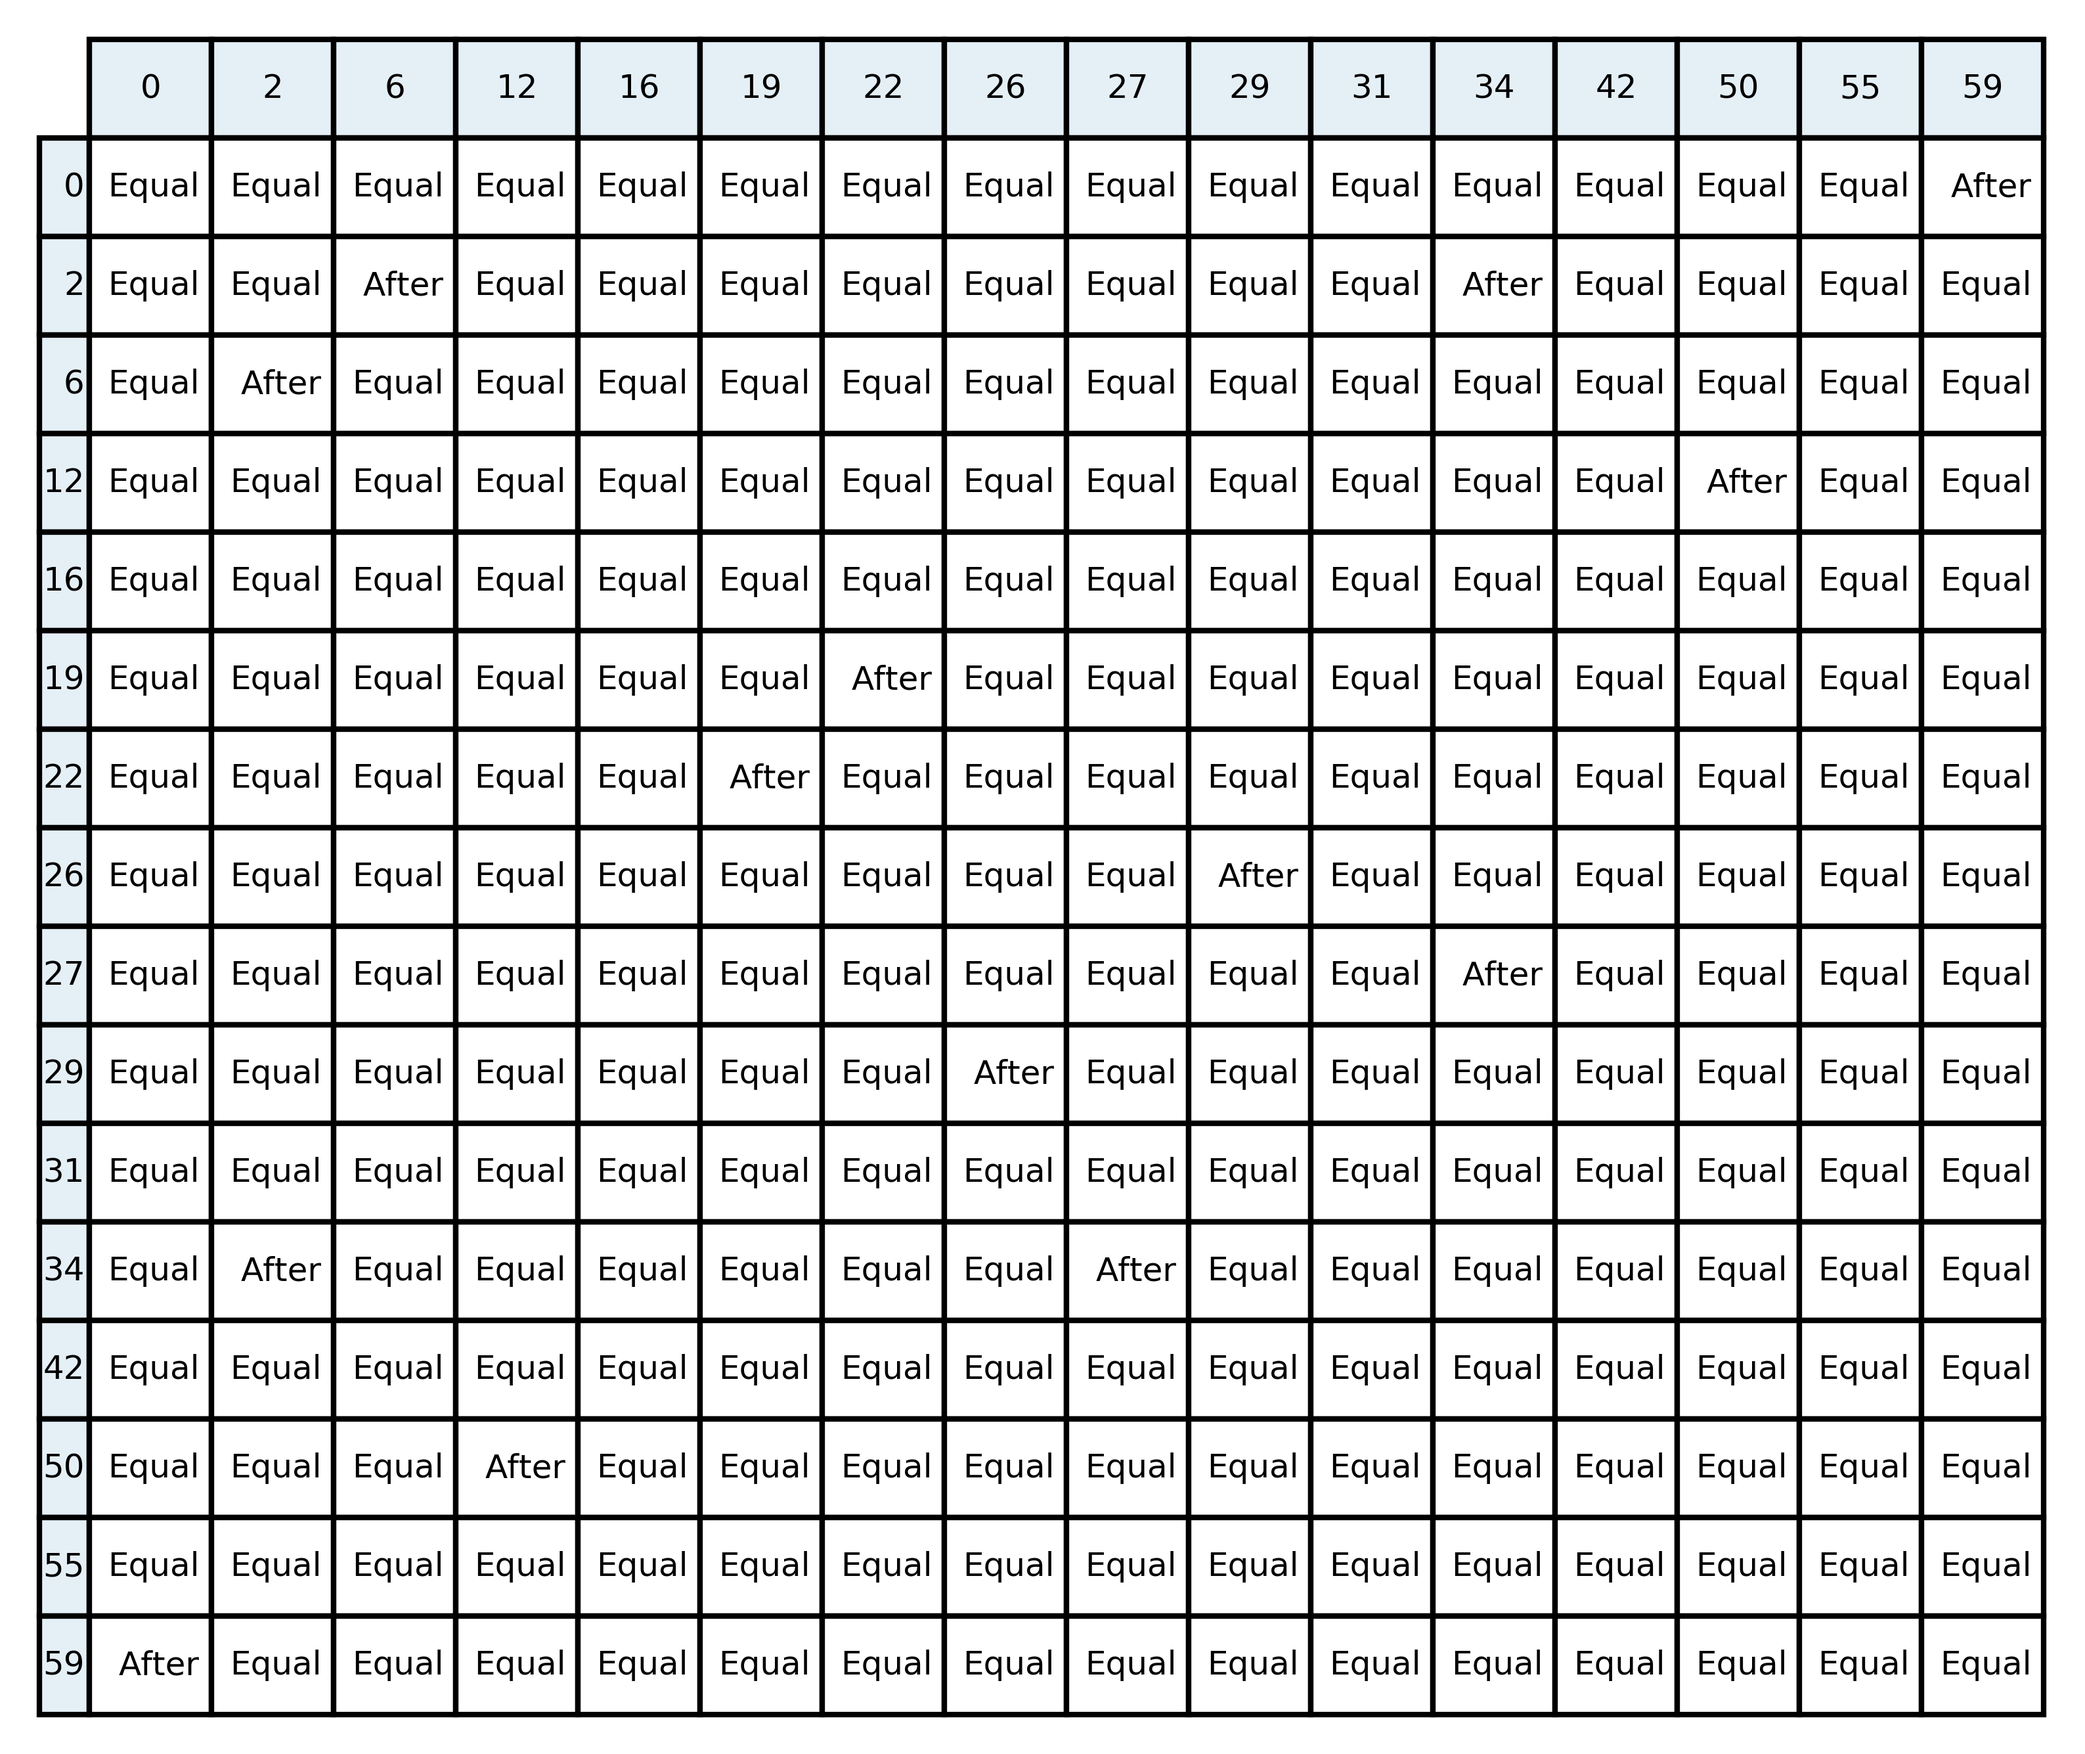
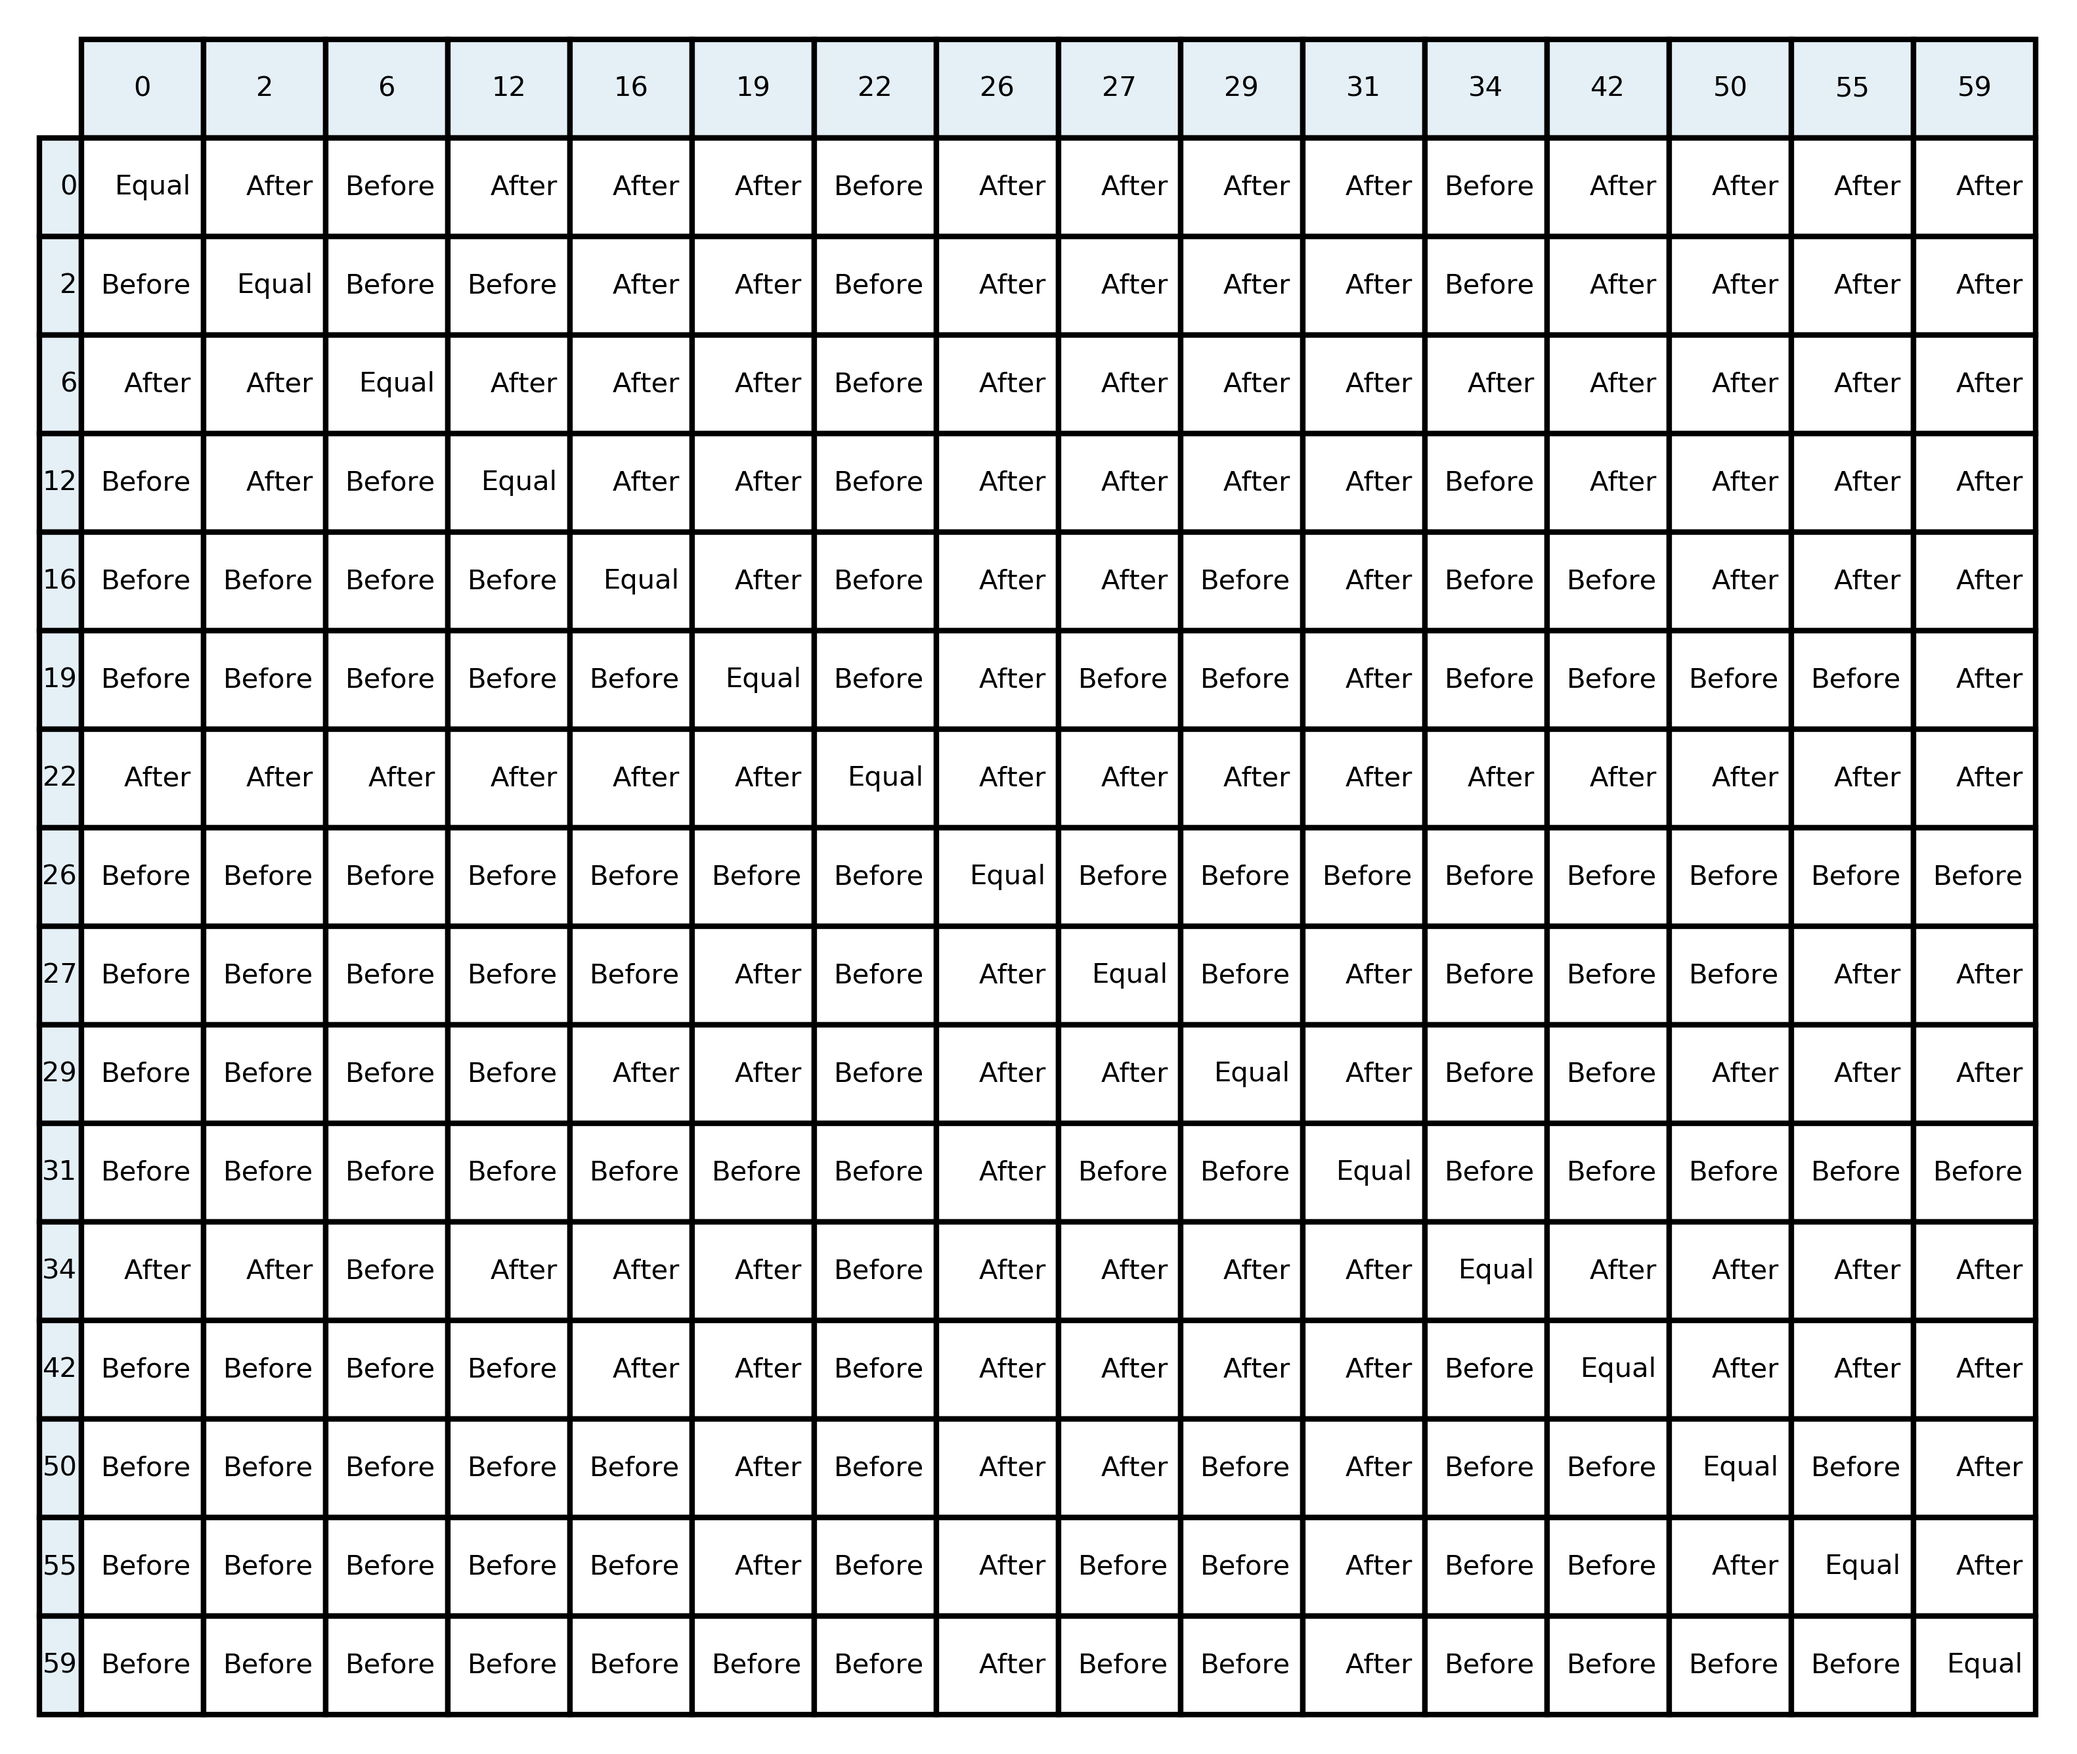
addLearnPatternByCompare

Changed region(s): [[0.031, 0.0311, 0.9915, 0.9637], [0.9295, 0.0311, 0.9605, 0.0622], [0.8365, 0.0311, 0.8675, 0.0622]]

diff --git a/NetworkResilience/LearningPattern.cpp b/NetworkResilience/LearningPattern.cpp
@@ -170,15 +170,51 @@ void Algorithm::LearnPatternRelation_Score(const ScheduleClass& sol, bool isGlob
 			const int ALink = sol.LinkId[i];
 			const int ComparedLink = sol.LinkId[j];
 			// step 1 : update the forward direction relationship, e.g. A - B
+			// not necessary to compare the revers relationship, 
 			LinkSchRelations r = sol.getRelation(ALink, ComparedLink);
-			const size_t AlinkId = findPatternIndex(ALink);
-			const size_t ComRelationLinkId = Pattern[AlinkId].findRelationId(ComparedLink);
-			if (isGlobalImprove) Pattern[AlinkId].Relation[ComRelationLinkId].UpdateScore(r, RewardImproveGlobal);
-			else Pattern[AlinkId].Relation[ComRelationLinkId].UpdateScore(r, RewardImproveLocal);
+			const size_t ALinkId = findPatternIndex(ALink);
+			const size_t ComRelationLinkId = Pattern[ALinkId].findRelationId(ComparedLink);
+			if (isGlobalImprove) Pattern[ALinkId].Relation[ComRelationLinkId].UpdateScore(r, RewardImproveGlobal);
+			else Pattern[ALinkId].Relation[ComRelationLinkId].UpdateScore(r, RewardImproveLocal);
 		}
 	}
-
 }
+
+bool isEqualRelation(const LinkSchRelations &A, const LinkSchRelations &B)
+{
+	if (A == LinkSchRelations::After && B == LinkSchRelations::After) return true;
+	if (A == LinkSchRelations::Before && B == LinkSchRelations::Before) return true;
+	if (A == LinkSchRelations::Same && B == LinkSchRelations::Same) return true;
+	if (A == LinkSchRelations::noDominated && B == LinkSchRelations::noDominated) return true;
+	if (A == LinkSchRelations::None && B == LinkSchRelations::None) return true;
+	return false;
+	
+}
+
+// learn and update pattern score by compare the difference between two solutions
+void Algorithm::LearnPatternFromCompare(const ScheduleClass& sol, const ScheduleClass& nei, bool isGlobalImprove)
+{
+	for (int i = 0; i < nei.LinkId.size(); i++)
+	{
+		for (int j = 0; j < nei.LinkId.size(); j++)
+		{
+			if (i==j) continue;
+			const int ALink = nei.LinkId[i];
+			const int ComparedLink = nei.LinkId[j];
+			LinkSchRelations oldRelation = sol.getRelation(ALink, ComparedLink);
+			LinkSchRelations newRelation = nei.getRelation(ALink, ComparedLink);
+			if (isEqualRelation(oldRelation,newRelation)) continue;
+			// only update the relationship of the two pairs if their new relationship is better
+			// update based on the new
+			const size_t ALinkId = findPatternIndex(ALink);
+			const size_t ComRelationLinkId = Pattern[ALinkId].findRelationId(ComparedLink);
+			if (isGlobalImprove) Pattern[ALinkId].Relation[ComRelationLinkId].UpdateScore(newRelation, RewardImproveGlobal);
+			else Pattern[ALinkId].Relation[ComRelationLinkId].UpdateScore(newRelation, RewardImproveLocal);
+		}
+	}
+}
+
+
 
 // Print the relationship into files
 void Algorithm::printDomRelation(int seed) const

diff --git a/NetworkResilience/ABC.cpp b/NetworkResilience/ABC.cpp
@@ -207,7 +207,8 @@ void Algorithm::GenerateIniSol()
 	//for (auto s : Sols) cout << s.Id << "," << s.Fitness << endl;
 }
 	
-
+// lhs is the current solution
+// rhs is the neighbour solution
 bool Algorithm::CompareTwoSolsAndReplace(ScheduleClass& lhs, const ScheduleClass& rhs, int neiOperatorId)
 {
 	//Compare the left hand side and the right hand side solutions 
@@ -226,13 +227,15 @@ bool Algorithm::CompareTwoSolsAndReplace(ScheduleClass& lhs, const ScheduleClass
 		if (rhs.Fitness < GlobalBest.Fitness)
 		{
 			//LearnPattern_Score(rhs, true);
-			LearnPatternRelation_Score(rhs, true);
+			//LearnPatternRelation_Score(rhs, true);
+			LearnPatternFromCompare(lhs, rhs, true);
 			GlobalBest = rhs;
 		}
 		else
 		{
 			//LearnPattern_Score(rhs, false);
-			LearnPatternRelation_Score(rhs, false);
+			//LearnPatternRelation_Score(rhs, false);
+			LearnPatternFromCompare(lhs, rhs, false);
 		}
 	}
 	return isBetter;
@@ -297,9 +300,10 @@ void Algorithm::ScoutPhase()
 			//this->Sols.at(t).Evaluate(*Graph);
 			if (Sols.at(t).Fitness < GlobalBest.Fitness)
 			{
+				//LearnPatternRelation_Score(GlobalBest, true);
+				//LearnPatternFromCompare()
 				GlobalBest = this->Sols.at(t);
 				//LearnPattern_Score(GlobalBest, true);
-				LearnPatternRelation_Score(GlobalBest, true);
 			}
 			ScoutCounter.at(t) = 0;
 		}

diff --git a/Script/PostProcessMain.py b/Script/PostProcessMain.py
@@ -7,9 +7,9 @@ import PostProcessDataFuns as psf
 import PlotOperatorConverge
 
 # root_folder = r"C:\Users\phdji\OneDrive - Danmarks Tekniske Universitet\JuanJuanLin\Tests2022/"
-# root_folder = r'C:/GitCodes/2022Apr3Test/'
+root_folder = r'C:/GitCodes/1_TestOp_8/'
 # root_folder = r'C:/GitCodes/RandomDemand/'
-root_folder = r'M:/LinJuan/500Iter/'
+# root_folder = r'M:/LinJuan/500Iter/'
 # plot 1 plot the heatmap for the optimal pattern
 
 def EffectOfOperators():
@@ -28,11 +28,11 @@ def CompareThree():
     psf.CompareOneFolder(OperatorFolder,"CompareThree")
 
 
-def PlotFinalRelation():
+def PlotFinalRelation(test_folder:str):
     """visulise the dominate relationship
     """
     # test_folder = "M:/LinJuan/0_ALNS/"
-    test_folder = "C:/GitCodes/0_ALNS/"
+    # test_folder = "C:/GitCodes/0_ALNS/"
     bs = psf.getBestSeed(test_folder)
     print("Best Seed = {0}".format(bs))
     psf.plotRelation(test_folder)
@@ -40,7 +40,8 @@ def PlotFinalRelation():
 if __name__ == "__main__":
     EffectOfOperators()
     # CompareThree()
-    # PlotFinalRelation()
+    # test_folder = r'C:/GitCodes/1_TestOp_8/'
+    # PlotFinalRelation(test_folder)
     
 
     # testfolder =  root_folder + "/RemoveOperator/"

diff --git a/Script/para.py b/Script/para.py
@@ -15,12 +15,11 @@ isDebug = False
 # SeedPool = [4601, 6677, 2887, 6421, 8471, 512, 3547, 2614, 8146, 
 #             9629, 8266, 3045, 9770, 3048, 6705, 9591, 7905, 8223, 9044, 1091,
 #             1,2,3,4,5,6,7,8,9,10,11,12,13,14,15,16,16,18,19,20]
-# SeedPool = [1,2,3,4,5,6,7,8,9,10,11,12,13,14,15,16,16,18,19,20]
-SeedPool = [4601, 6677, 2887, 6421, 8471, 512, 3547, 2614, 8146, 9629]
-# NumOfTestSeed = len(SeedPool)
+SeedPool = [1,2,3,4,5,6,7,8,9,10,11,12,13,14,15,16,16,18,19,20]
 NumOfTestSeed = 10
 # FailureLinks = [0, 6, 19, 22, 26, 27, 34, 38, 42, 55, 59, 73]
 FailureLinks = [0,2,6,12,16,19,22,26,27,29,31,34,42,50,55,59]
+
 NumofIter = 500
 global_case_id = 0
 

diff --git a/NetworkResilience/TempleteFunc.h b/NetworkResilience/TempleteFunc.h
@@ -50,12 +50,13 @@ void DebugStop(T val, T tv){
 	}
 }
 
-template<typename T>
-void PrintParaValue(char *Name, T Value)
-{
-	ParaSummary << left << setw(40) << Name;
-	ParaSummary << right << Value << endl;
-}
+//
+//template<typename T>
+//void PrintParaValue(char *Name, T Value)
+//{
+//	ParaSummary << left << setw(40) << Name;
+//	ParaSummary << right << Value << endl;
+//}
 
 struct split
 {

diff --git a/Script/PostProcessDataFuns.py b/Script/PostProcessDataFuns.py
@@ -65,7 +65,7 @@ def CompareOneFolder(_folder:str,_name:str):
 
 	print("plot one folder case")
 	print("default number of iter is 200, need to check if it is not")
-	NumberOfIter = 200
+	NumberOfIter = para.NumofIter
 	allGaps = []
 	for fo in range(0, len(dirs)):
 		f = _folder+"\\"+dirs[fo] + "\\ABC_Converge_ave.txt"

diff --git a/NetworkResilience/ABC.h b/NetworkResilience/ABC.h
@@ -118,6 +118,7 @@ public:
 	void IniOperatorProb_ALNS();
 	void printPattern(int seedId);
 	void printDomRelation(int seed) const;
+	void LearnPatternFromCompare(const ScheduleClass& sol, const ScheduleClass& nei, bool isGlobalImprove);
 };
 
 
